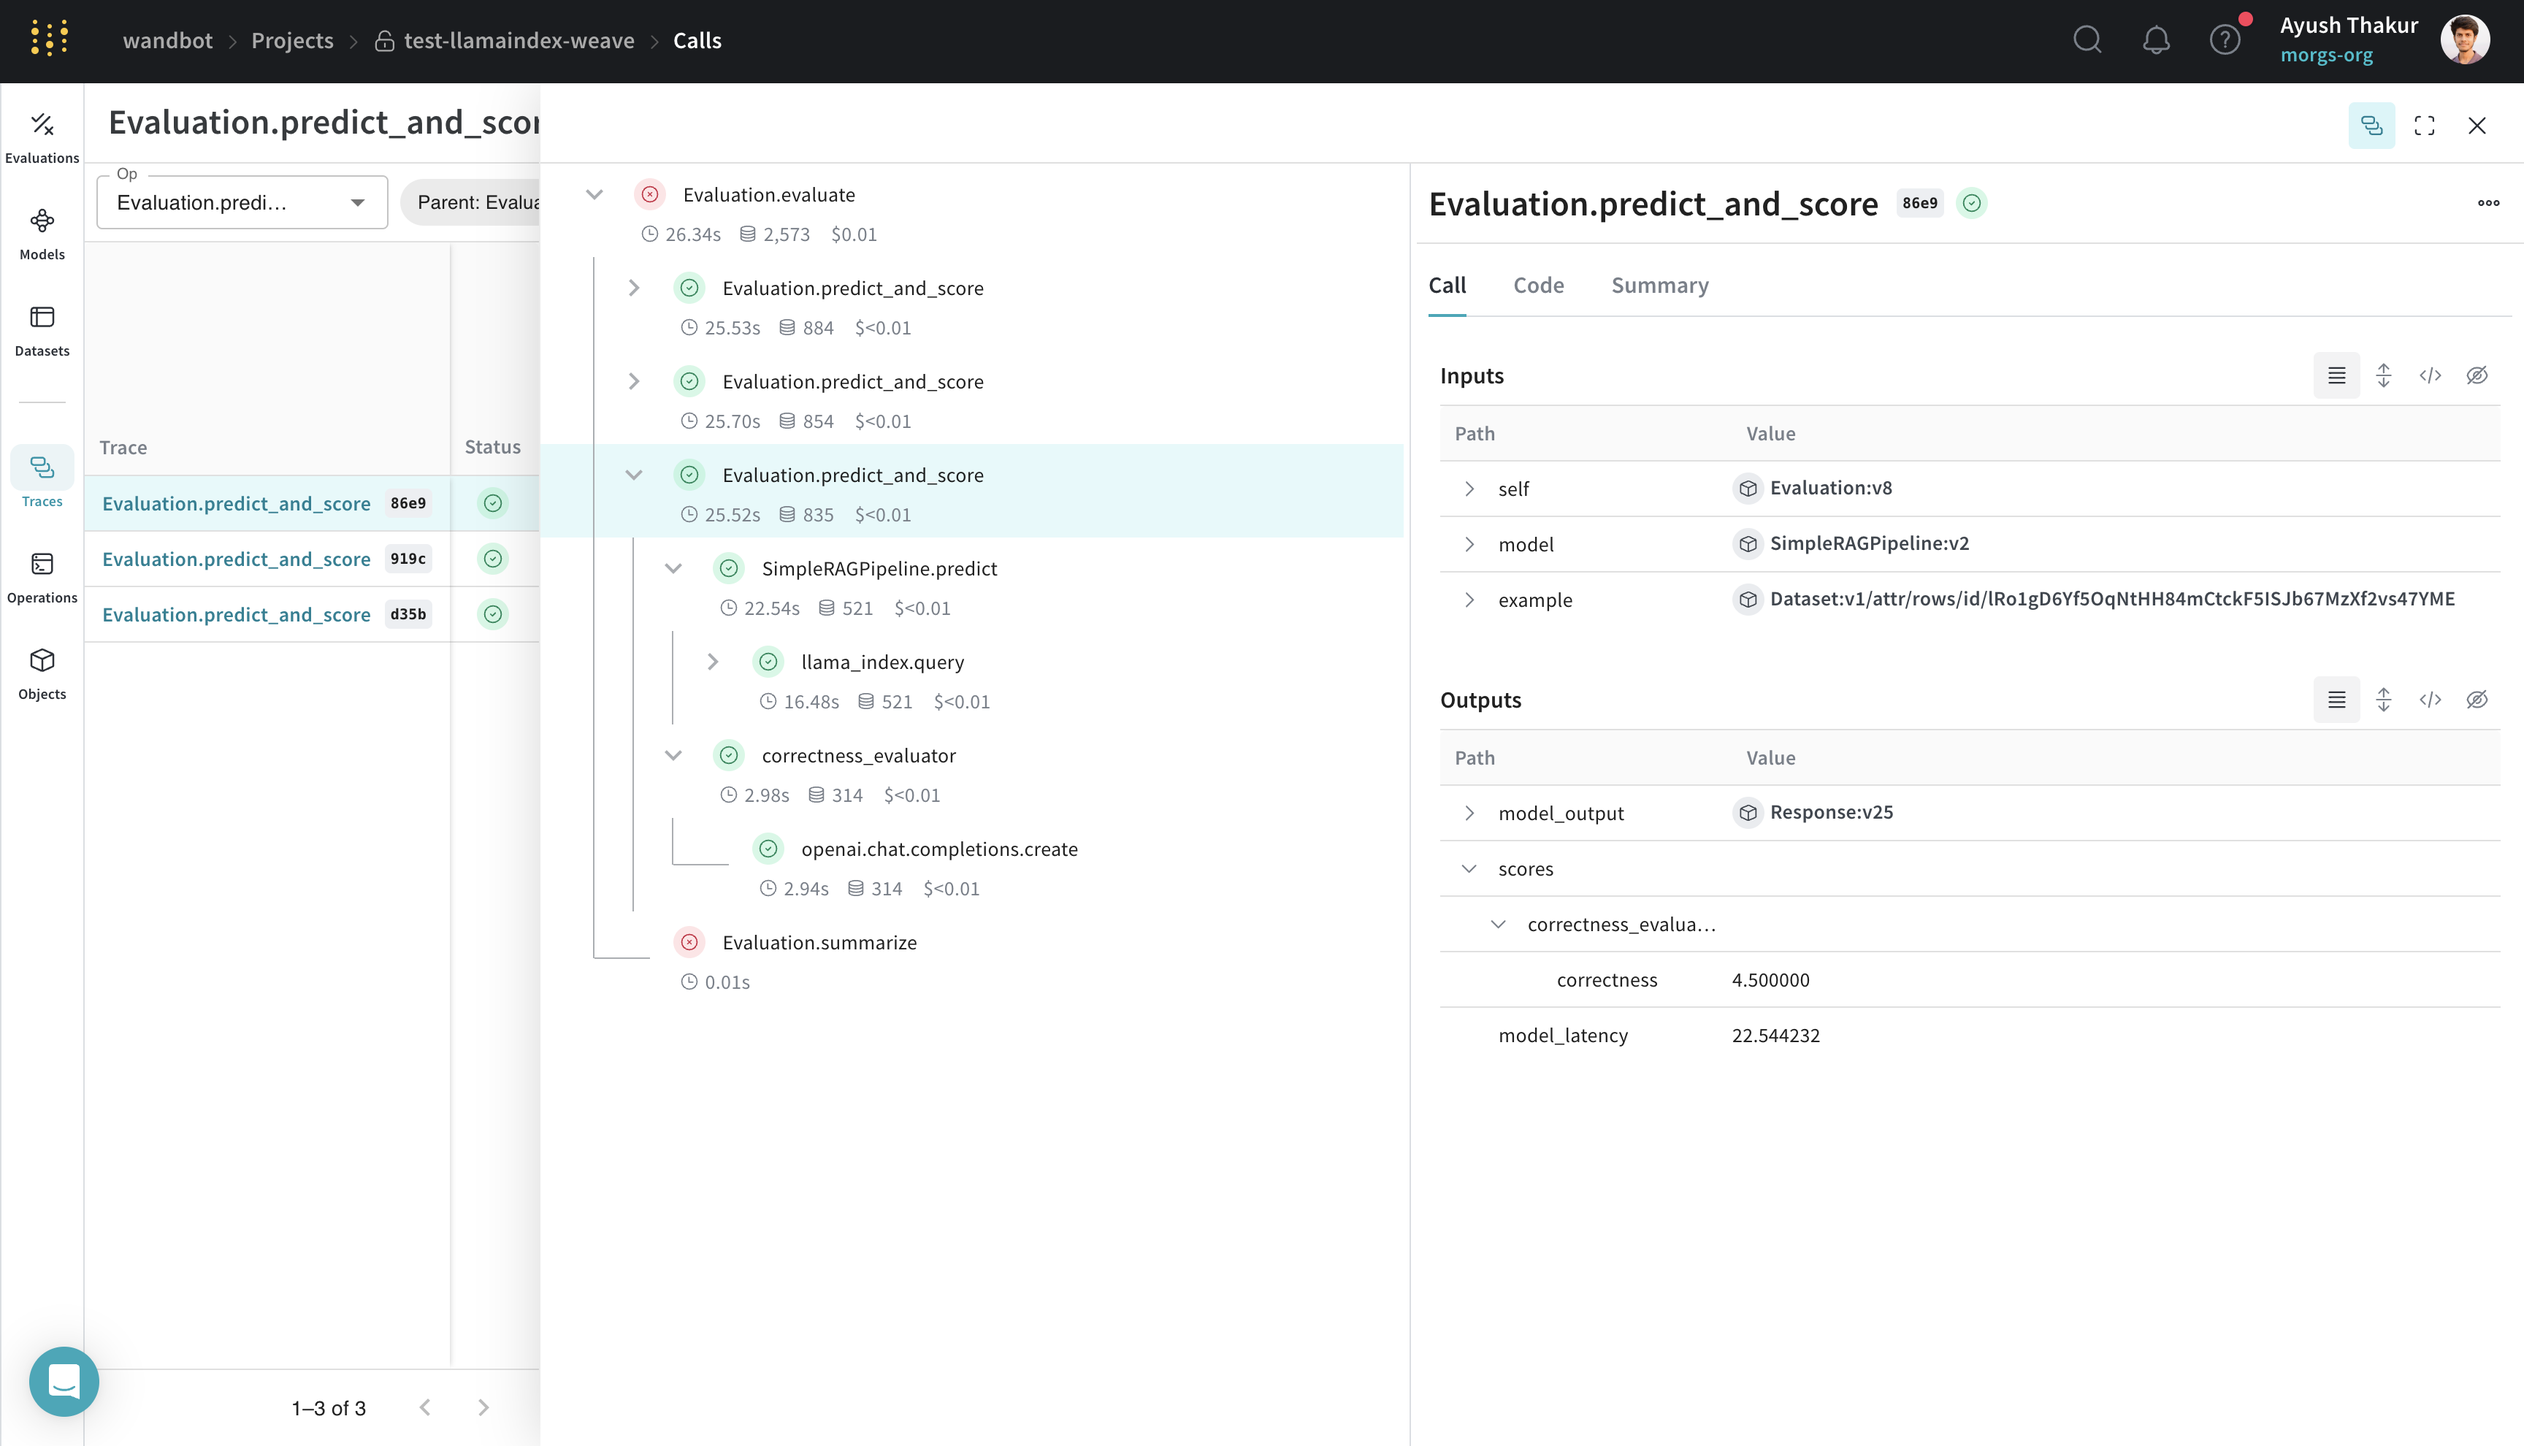
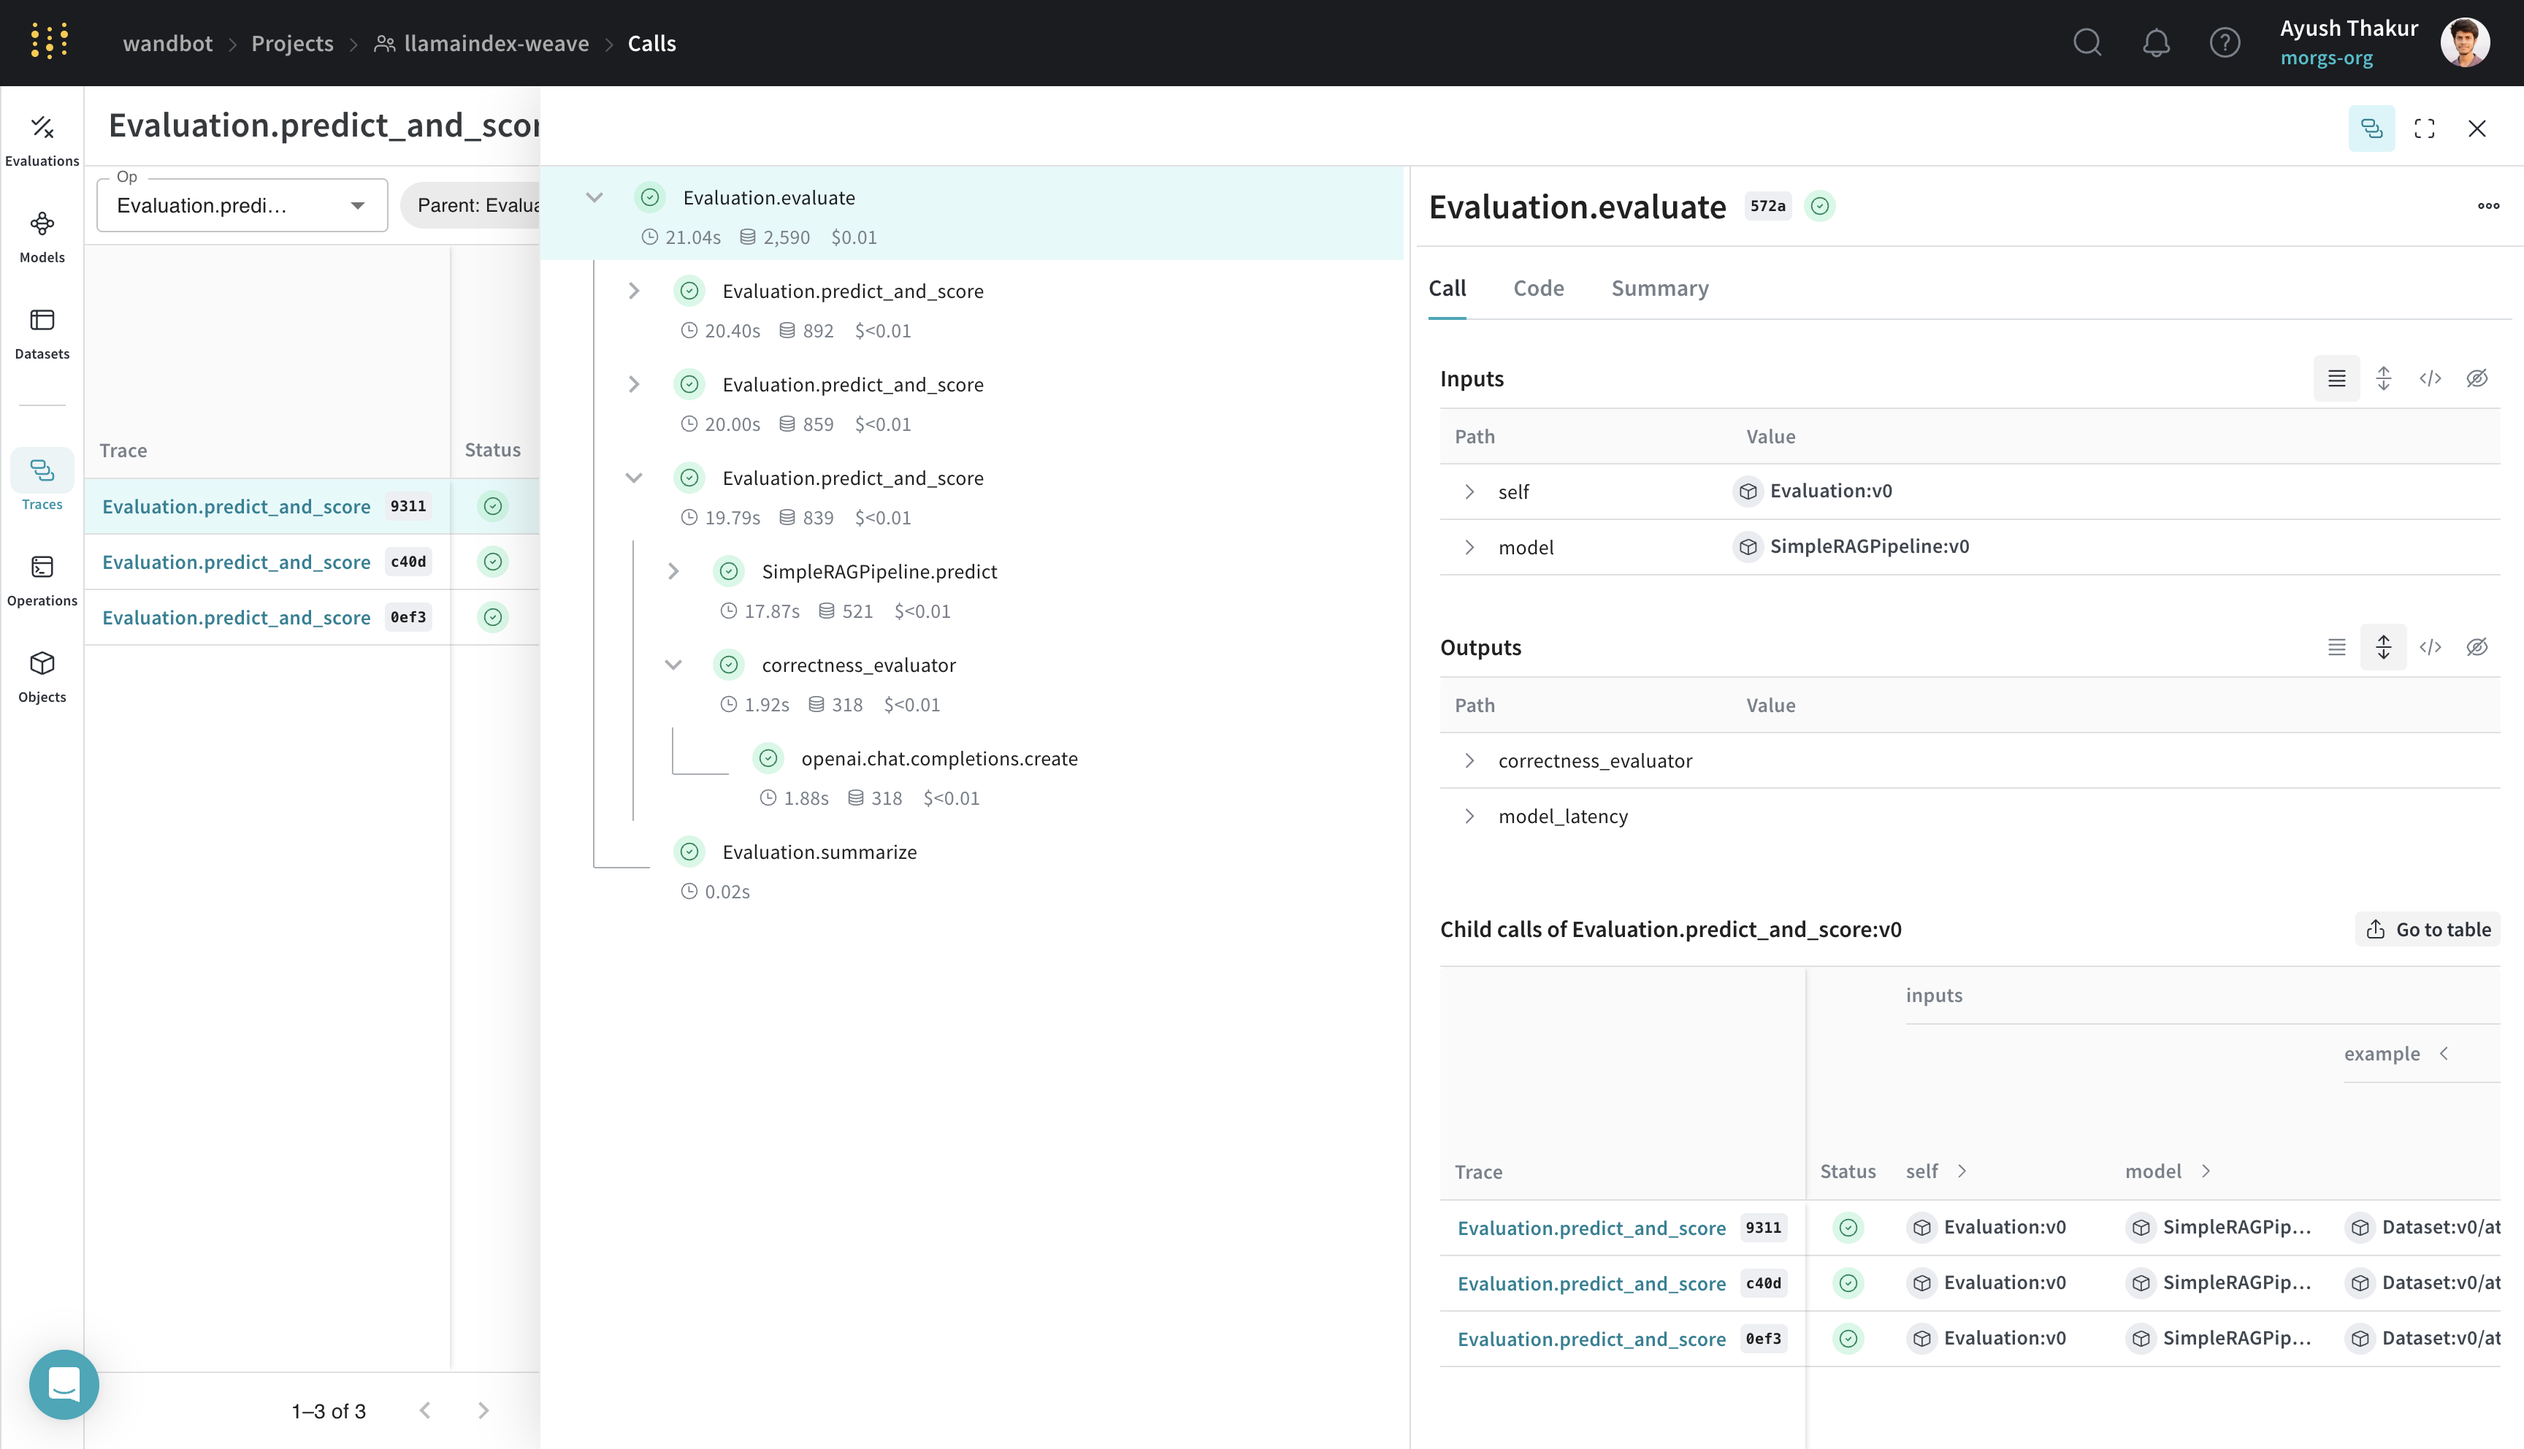
chore: fix evaluation pipeline

diff --git a/docs/docs/guides/ecosystem/llamaindex.md b/docs/docs/guides/ecosystem/llamaindex.md
@@ -136,7 +136,7 @@ class SimpleRAGPipeline(weave.Model):
             "data/paul_graham",
         )
         response = query_engine.query(query)
-        return response
+        return {"response": response.response}
 
 # highlight-next-line
 weave.init("test-llamaindex-weave")
@@ -180,26 +180,29 @@ eval_examples = [
 llm_judge = OpenAI(model="gpt-4", temperature=0.0)
 evaluator = CorrectnessEvaluator(llm=llm_judge)
 
+# highlight-next-line
 @weave.op()
 def correctness_evaluator(query: str, ground_truth: str, model_output: dict):
     result = evaluator.evaluate(
-        query=query, reference=ground_truth, response=model_output.response
+        query=query, reference=ground_truth, response=model_output["response"]
     )
     return {"correctness": float(result.score)}
 
-
+# highlight-next-line
 evaluation = weave.Evaluation(dataset=eval_examples, scorers=[correctness_evaluator])
 
 rag_pipeline = SimpleRAGPipeline()
+
+# highlight-next-line
 asyncio.run(evaluation.evaluate(rag_pipeline))
 ```
 
-This example builds on the example in the earlier section. Evaluating using `weave.Evaluation` requires an evaluation dataset, a scorer function and a `weave.Model`. Here are a few nuances about the three key components:
+This evaluation builds on the example in the earlier section. Evaluating using `weave.Evaluation` requires an evaluation dataset, a scorer function and a `weave.Model`. Here are a few nuances about the three key components:
 
-- Make sure that the keys of the evaluation dataset matches the arguments of the scorer function and of the `weave.Model`'s `predict` method.
+- Make sure that the keys of the evaluation sample dicts matches the arguments of the scorer function and of the `weave.Model`'s `predict` method.
 - The `weave.Model` should have a method with the name `predict` or `infer` or `forward`. Decorate this method with `weave.op()` for tracing.
 - The scorer function should be decorated with `weave.op()` and should have `model_output` as named argument.
 
-[![llamaindex_evaluation.png](imgs/llamaindex_evaluation.png)]()
+[![llamaindex_evaluation.png](imgs/llamaindex_evaluation.png)](https://wandb.ai/wandbot/llamaindex-weave/weave/calls?filter=%7B%22opVersionRefs%22%3A%5B%22weave%3A%2F%2F%2Fwandbot%2Fllamaindex-weave%2Fop%2FEvaluation.predict_and_score%3ANmwfShfFmgAhDGLXrF6Xn02T9MIAsCXBUcifCjyKpOM%22%5D%2C%22parentId%22%3A%2233491e66-b580-47fa-9d43-0cd6f1dc572a%22%7D&peekPath=%2Fwandbot%2Fllamaindex-weave%2Fcalls%2F33491e66-b580-47fa-9d43-0cd6f1dc572a%3Ftracetree%3D1)
 
 By integrating Weave with LlamaIndex, you can ensure comprehensive logging and monitoring of your LLM applications, facilitating easier debugging and performance optimization using evaluation.
